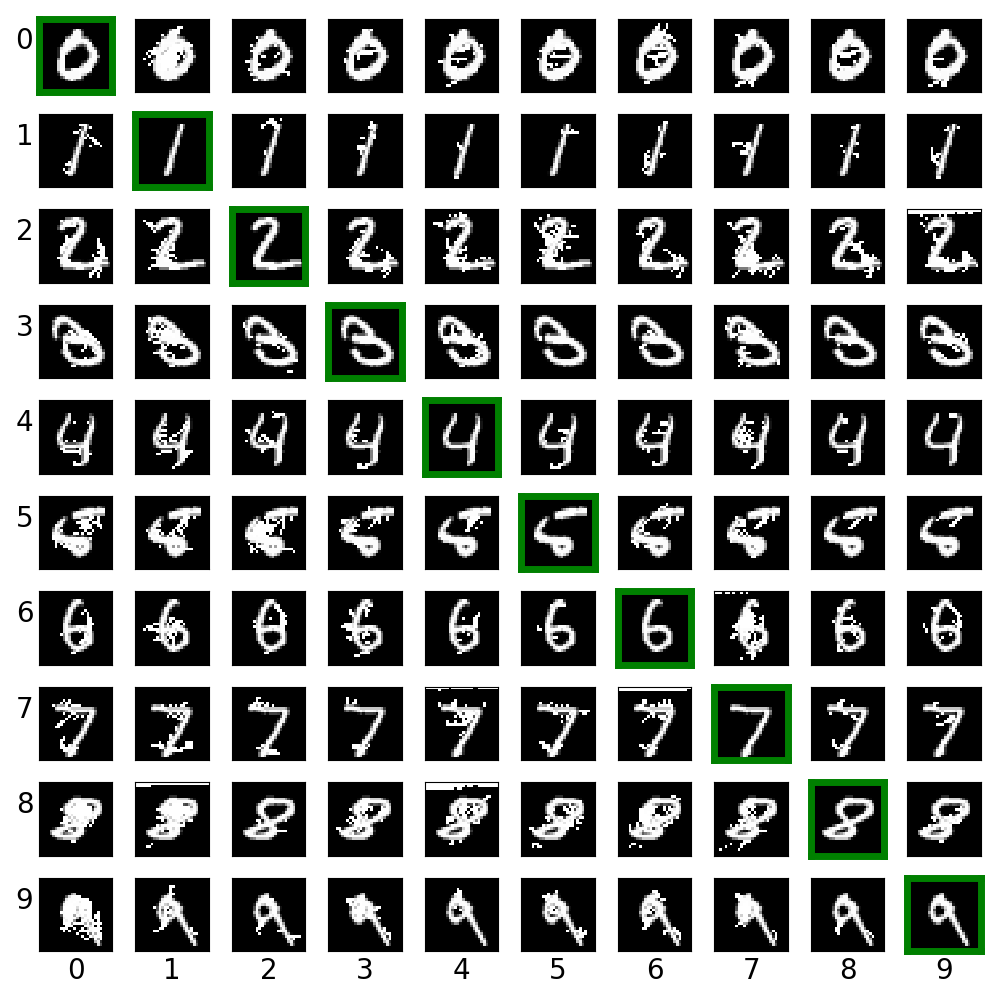
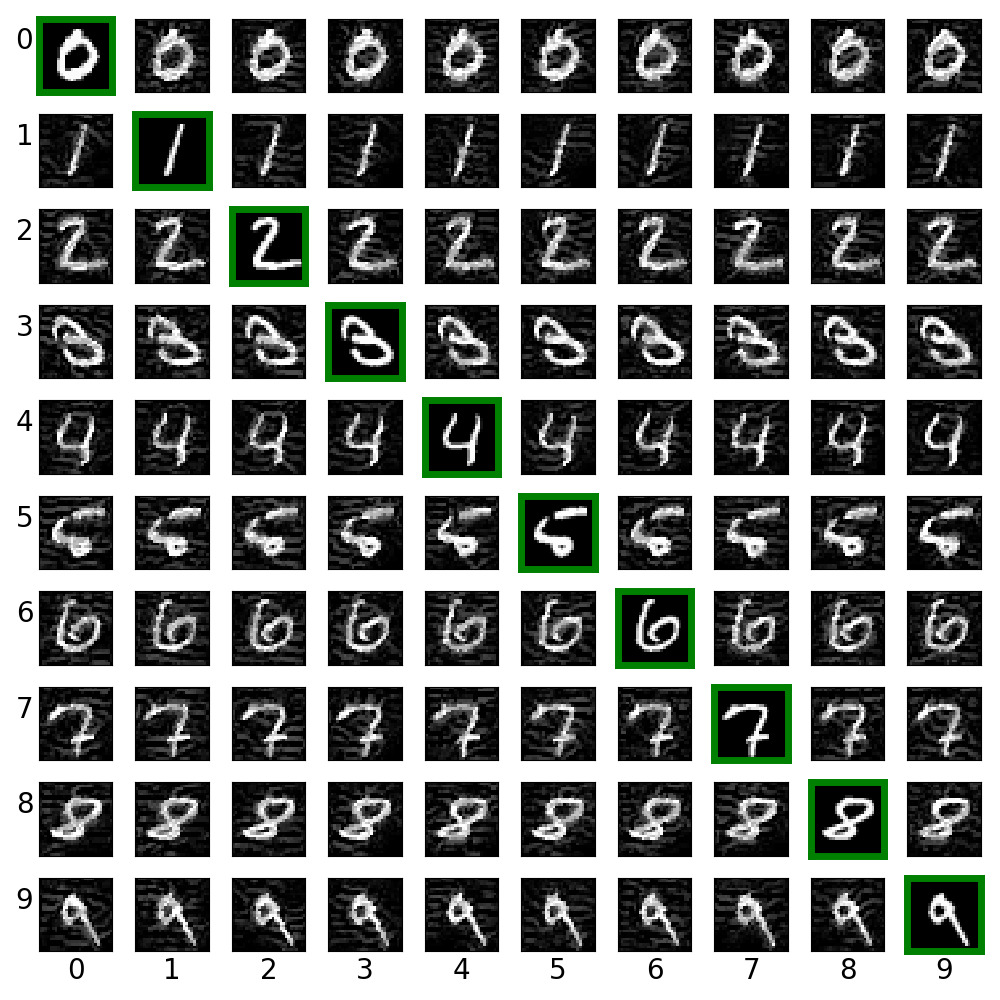
tgsm bug fix, example added

diff --git a/attacks/tgsm.py b/attacks/tgsm.py
@@ -5,19 +5,21 @@ def tgsm(model, x, y=None, eps=0.01, nb_epoch=1, clip_min=0., clip_max=1.):
 
     x_adv = tf.identity(x)
     eps = -tf.abs(eps)
+    ybar = model(x_adv)
+    yshape = tf.shape(ybar)
+    ydim = yshape[1]
 
     if y is None:
-        ybar = model(x_adv)
-        yshape = tf.shape(ybar)
-        n = yshape[1]
         indices = tf.argmin(ybar, axis=1)
-        target = tf.one_hot(indices, n)
     else:
         xshape = tf.shape(x)
         n = xshape[0]
-        target = tf.cond(tf.equal(0, tf.rank(y)),
-                         lambda: tf.zeros([n], dtype=tf.int32)+y,
-                         lambda: y)
+        indices = tf.cond(tf.equal(0, tf.rank(y)),
+                          lambda: tf.zeros([n], dtype=tf.int32)+y,
+                          lambda: y)
+
+    target = tf.one_hot(indices, ydim, on_value=clip_max,
+                        off_value=clip_min)
 
     def _cond(x_adv, i):
         return tf.less(i, nb_epoch)

diff --git a/ex_02.py b/ex_02.py
@@ -17,7 +17,7 @@ matplotlib.use('Agg')
 import matplotlib.pyplot as plt
 import matplotlib.gridspec as gridspec
 
-from attacks.jsma import jsma
+from attacks.tgsm import tgsm
 
 
 img_rows = 28
@@ -82,7 +82,7 @@ x = tf.placeholder(tf.float32, shape=(None, img_rows, img_cols,
 y = tf.placeholder(tf.float32, shape=(None, nb_classes))
 ybar = model(x)
 target = tf.placeholder(tf.int32, ())
-x_adv = jsma(model, x, target, nb_epoch=0.1, pair=True)
+x_adv = tgsm(model, x, target, eps=0.01, nb_epoch=30)
 
 
 print('\nTest against clean data')

diff --git a/README.md b/README.md
@@ -78,7 +78,7 @@ smda(model, x, y, nb_epoch=1.0, eps=1., clip_min=0.0, clip_max=1.0, min_proba=0.
     <img src="./img/ex_02.png" width="45%">
 
 - [**ex_02.py**](./ex_02.py) creates cross label adversarial images
-  via paired saliency map algorithm (JSMA2), right image.
+  via target class gradient sign method (TGSM), right image.
 
 - [**ex_03.py**](./ex_03.py) creates digits from blank images via
   saliency different algorithm (SMDA).
